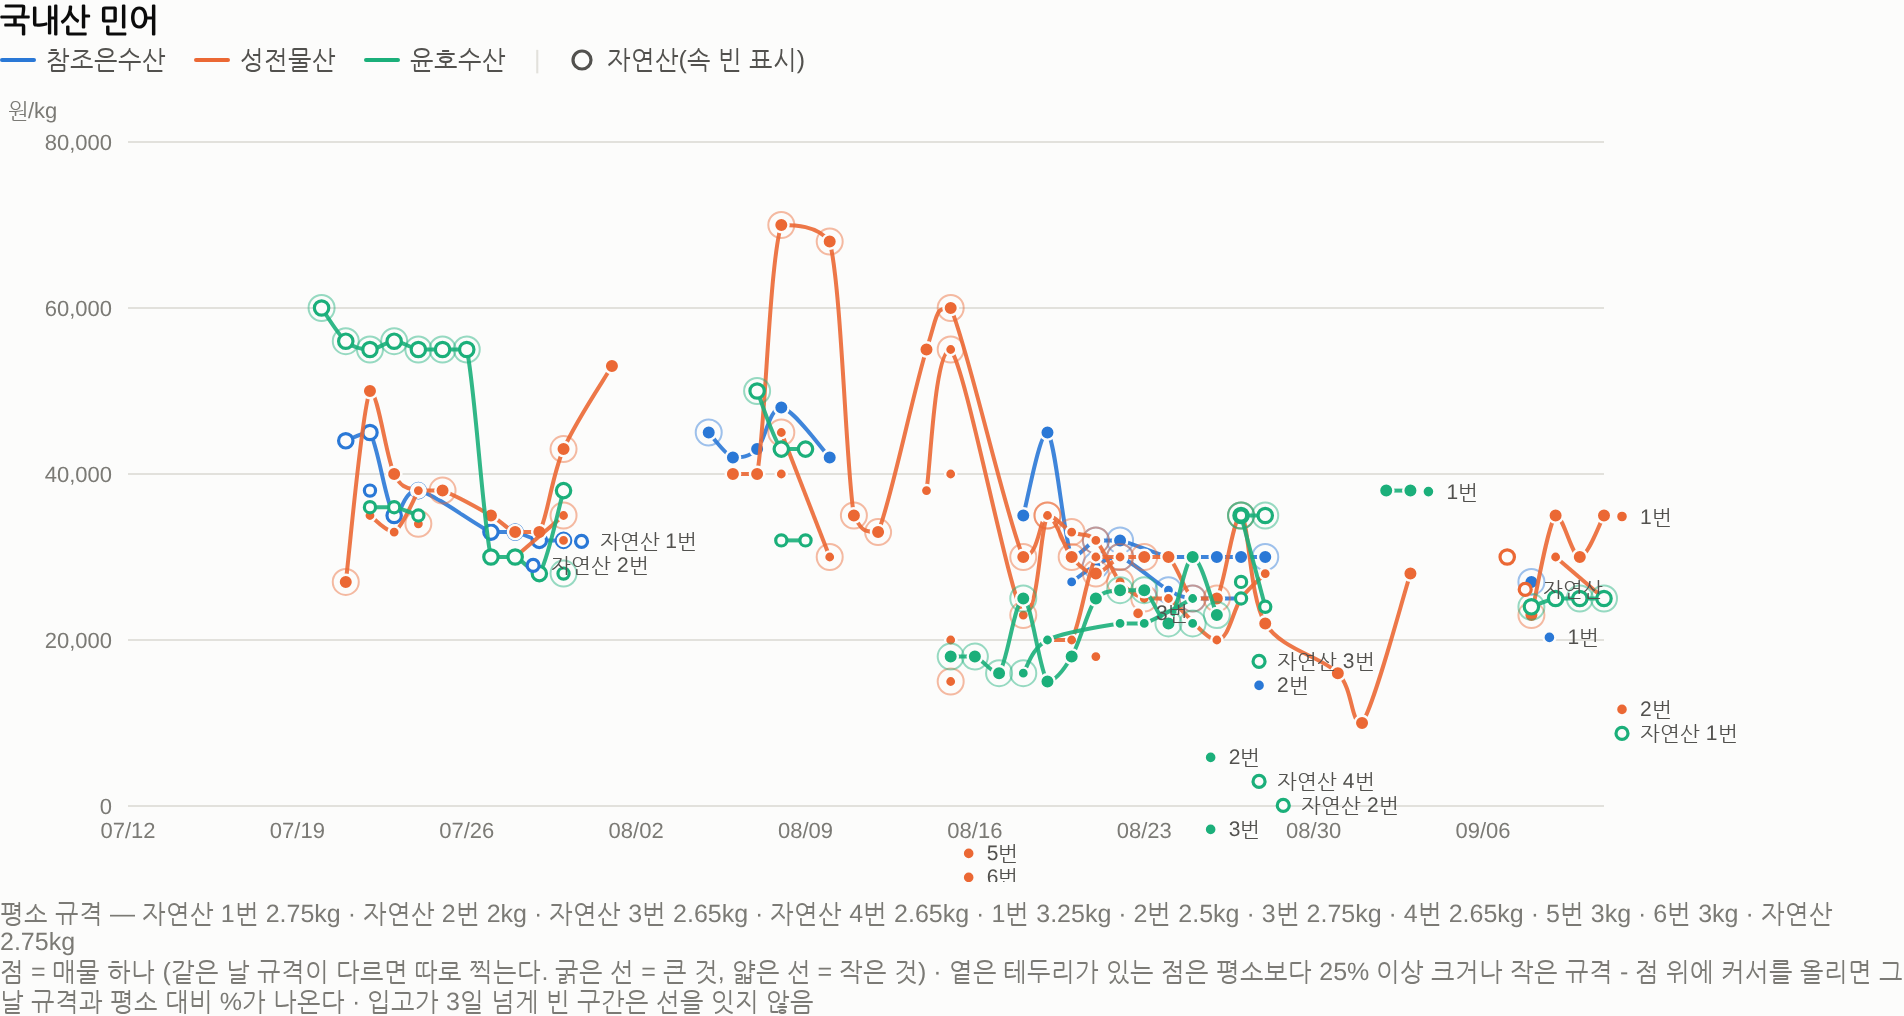
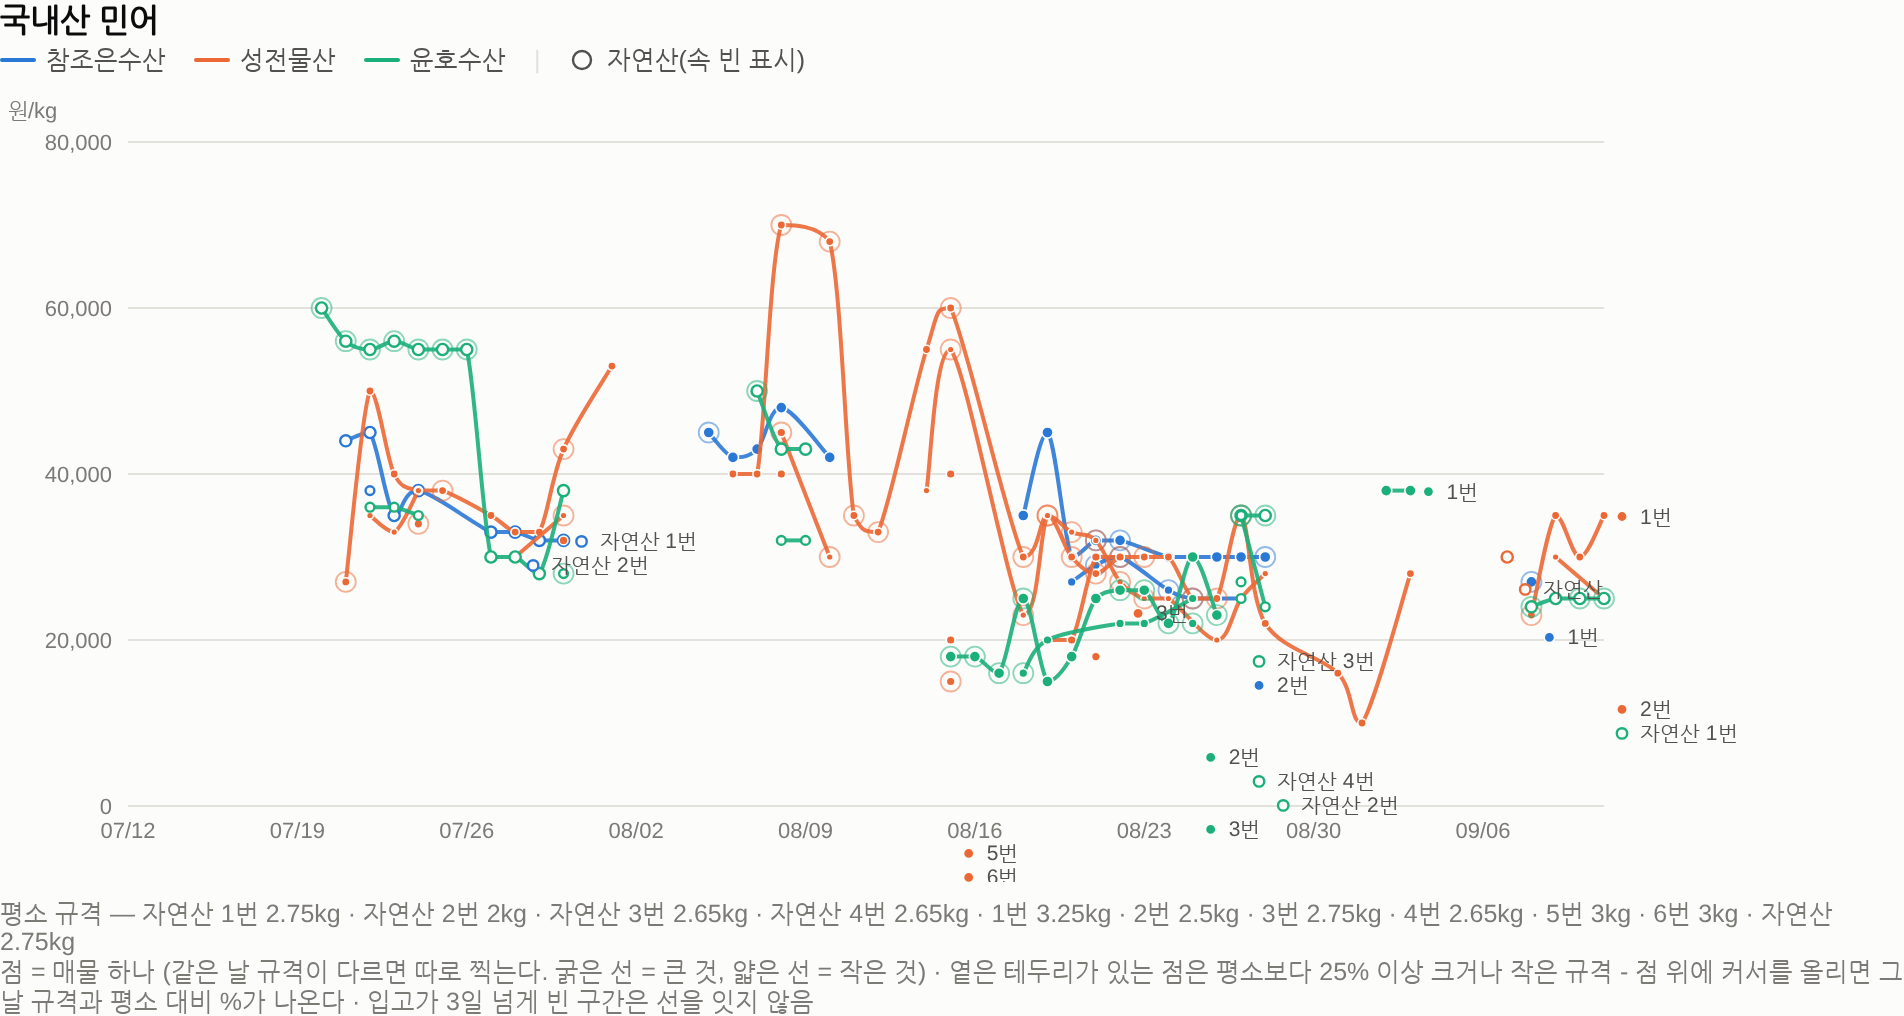
점 크기 축소

diff --git a/index.html b/index.html
@@ -101,8 +101,8 @@ const won=v=>v.toLocaleString("ko-KR");
 let cur=0;
 
 function mark(x,y,shape,color,hollow,r){
-  r=r||3.4; const a={fill:hollow?"var(--surface-1)":color,stroke:color,
-    "stroke-width":hollow?1.6:1.2, "vector-effect":"non-scaling-stroke"};
+  r=r||2.2; const a={fill:hollow?"var(--surface-1)":color,stroke:color,
+    "stroke-width":hollow?1.2:0.8, "vector-effect":"non-scaling-stroke"};
   if(!hollow) a.stroke="var(--surface-1)";      // 얇은 서피스 링 - 선이 가려지지 않게
   if(shape==="circle") return el("circle",{cx:x,cy:y,r:r,...a});
   if(shape==="square") return el("rect",{x:x-r,y:y-r,width:2*r,height:2*r,rx:1,...a});
@@ -174,7 +174,9 @@ function draw(){
 
   lines.forEach(L=>{
     const c=COLOR[L.shop], sh="circle", dash="";
-    const thin=L.rank>0, lw=thin?1.5:2.4, mr=thin?2.8:3.6;  // 2번·3번(작은 것)은 가늘게
+    // 점은 날짜마다 찍혀서 크면 선을 덮는다. 입고일이 적은 계열만 조금 크게.
+    const thin=L.rank>0, lw=thin?1.5:2.4;
+    const mr=(L.pts.length>20? (thin?1.7:2.1) : (thin?2.2:2.8));
     let seg=[];
     const flush=()=>{if(seg.length>1){const a={
       d:smoothPath(seg.map(p=>({x:xs(p.d),y:ys(p.p)}))),
@@ -187,8 +189,8 @@ function draw(){
       svg.appendChild(mark(xs(p.d),ys(p.p),sh,c,L.wild,mr));
       // 규격이 평소와 많이 다른 날: 옅은 테두리만 두고 숫자는 tooltip 에서 본다
       if(p.flag)
-        svg.appendChild(el("circle",{cx:xs(p.d),cy:ys(p.p),r:6.5,fill:"none",
-          stroke:c,"stroke-width":1,opacity:.45}));
+        svg.appendChild(el("circle",{cx:xs(p.d),cy:ys(p.p),r:5,fill:"none",
+          stroke:c,"stroke-width":0.9,opacity:.5}));
     });
     const last=L.pts[L.pts.length-1];
     ends.push({L,x:xs(last.d)+18,y:ys(last.p)+4,c,sh,mx:xs(last.d)+9});
@@ -203,7 +205,7 @@ function draw(){
   // 같은 글씨(예: "국내산 제주 1번")가 가게별로 여러 번 나오므로 색 표식을 앞에 둔다.
   // 글씨 자체에 색을 입히지 않는 것은 색맹 대비 - 표식이 정체성을 진다.
   if(!MOBILE) ends.forEach(e=>{
-    svg.appendChild(mark(e.mx,e.y-3.5,"circle",e.c,e.L.wild,3));
+    svg.appendChild(mark(e.mx,e.y-3.5,"circle",e.c,e.L.wild,2.6));
     const t=el("text",{x:e.x,y:e.y,fill:"var(--text-secondary)","font-size":10.5});
     t.textContent = variants.size>1 ? (e.L.desc || e.L.shop) : e.L.shop;
     svg.appendChild(t);});
